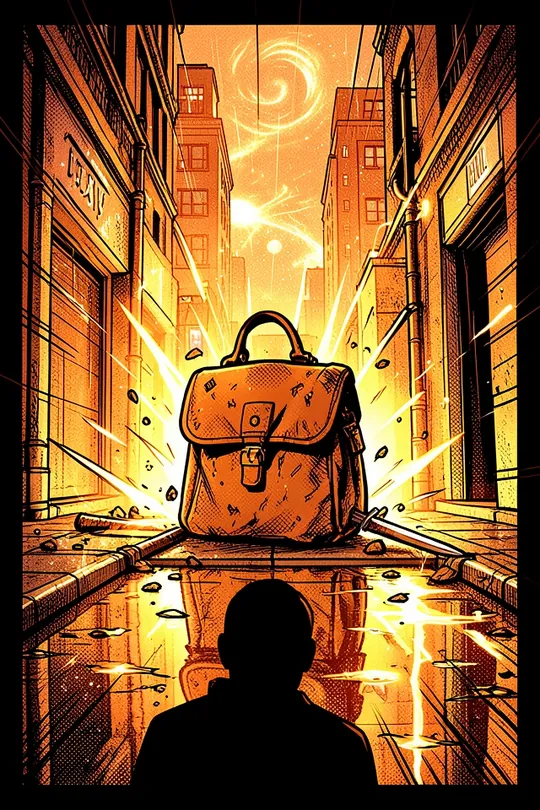
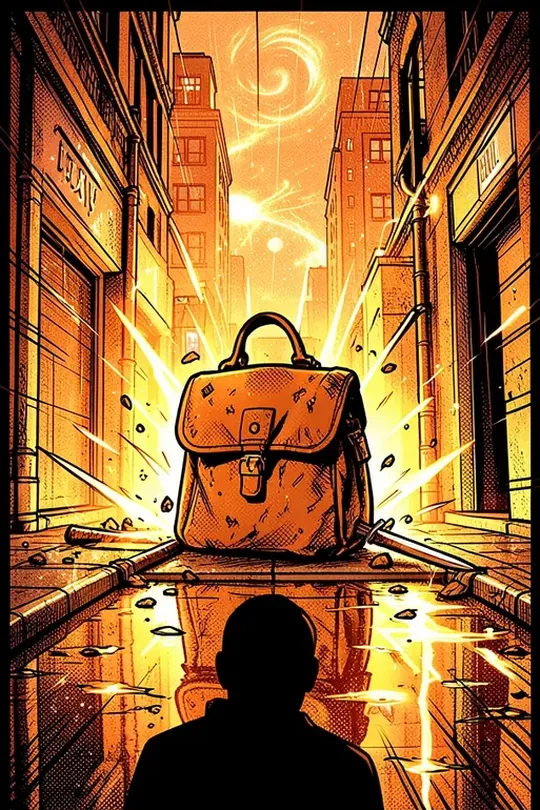
Immagini carte: tolte cornici bianche e bande nere disegnate dal modello; scene riscritte per le 3 rifiutate dal filtro
Claude-Session: https://claude.ai/code/session_01GbypLYdo7YYeqXmyNx1goG

diff --git a/sw.js b/sw.js
@@ -1,5 +1,5 @@
 // Monomythos Service Worker - Fast offline cache
-const CACHE_NAME = 'monomythos-v36';
+const CACHE_NAME = 'monomythos-v37';
 const ASSETS = [
   './',
   './index.html',

diff --git a/strumenti/genera_immagini_carte.py b/strumenti/genera_immagini_carte.py
@@ -300,9 +300,29 @@ class Segnalata(RuntimeError):
     pass
 
 
+def togli_bordi(im):
+    # Il modello a volte disegna una cornice bianca o nera: si tagliano i bordi di colore uniforme
+    from PIL import ImageStat
+    w, h = im.size
+    g = im.convert('L')
+    def uniforme(box):
+        st = ImageStat.Stat(g.crop(box))
+        return (st.stddev[0] < 10 and st.mean[0] > 225) or (st.stddev[0] < 3 and st.mean[0] < 8)
+    l, t, r, b = 0, 0, w, h
+    passo = max(2, w // 200)
+    while l < w * 0.15 and uniforme((l, t, l + passo, b)): l += passo
+    while r > w * 0.85 and uniforme((r - passo, t, r, b)): r -= passo
+    while t < h * 0.15 and uniforme((l, t, r, t + passo)): t += passo
+    while b > h * 0.85 and uniforme((l, b - passo, r, b)): b -= passo
+    if (l, t, r, b) != (0, 0, w, h):
+        m = passo  # un margine in più per togliere anche la riga di contorno
+        im = im.crop((min(l + m, w // 4), min(t + m, h // 4), max(r - m, w * 3 // 4), max(b - m, h * 3 // 4)))
+    return im
+
+
 def to_card_webp(jpeg_bytes, path):
     from PIL import Image
-    im = Image.open(io.BytesIO(jpeg_bytes)).convert('RGB')
+    im = togli_bordi(Image.open(io.BytesIO(jpeg_bytes)).convert('RGB'))
     # Ritaglio verticale 2:3 centrato: la scena centrale cade nella finestra della cornice
     w, h = im.size
     tw = min(w, int(h * 2 / 3))
